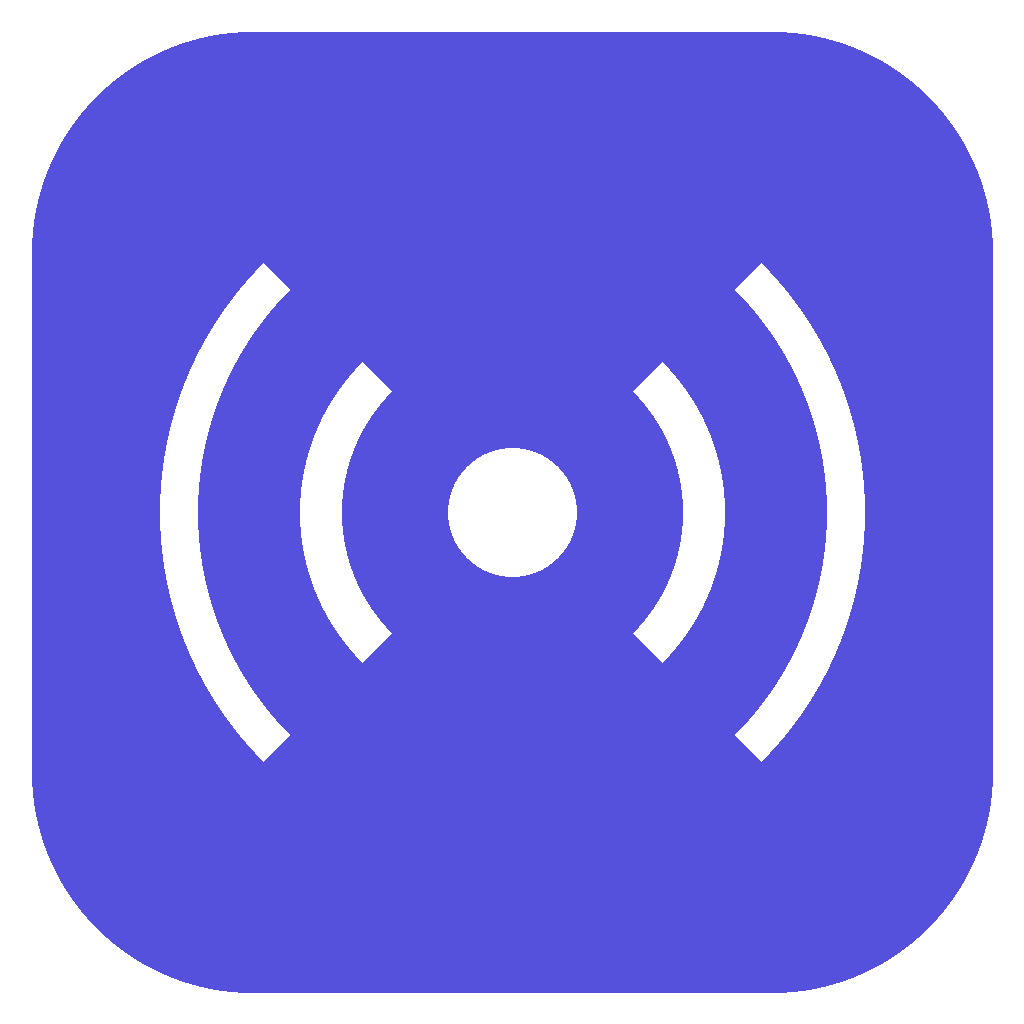
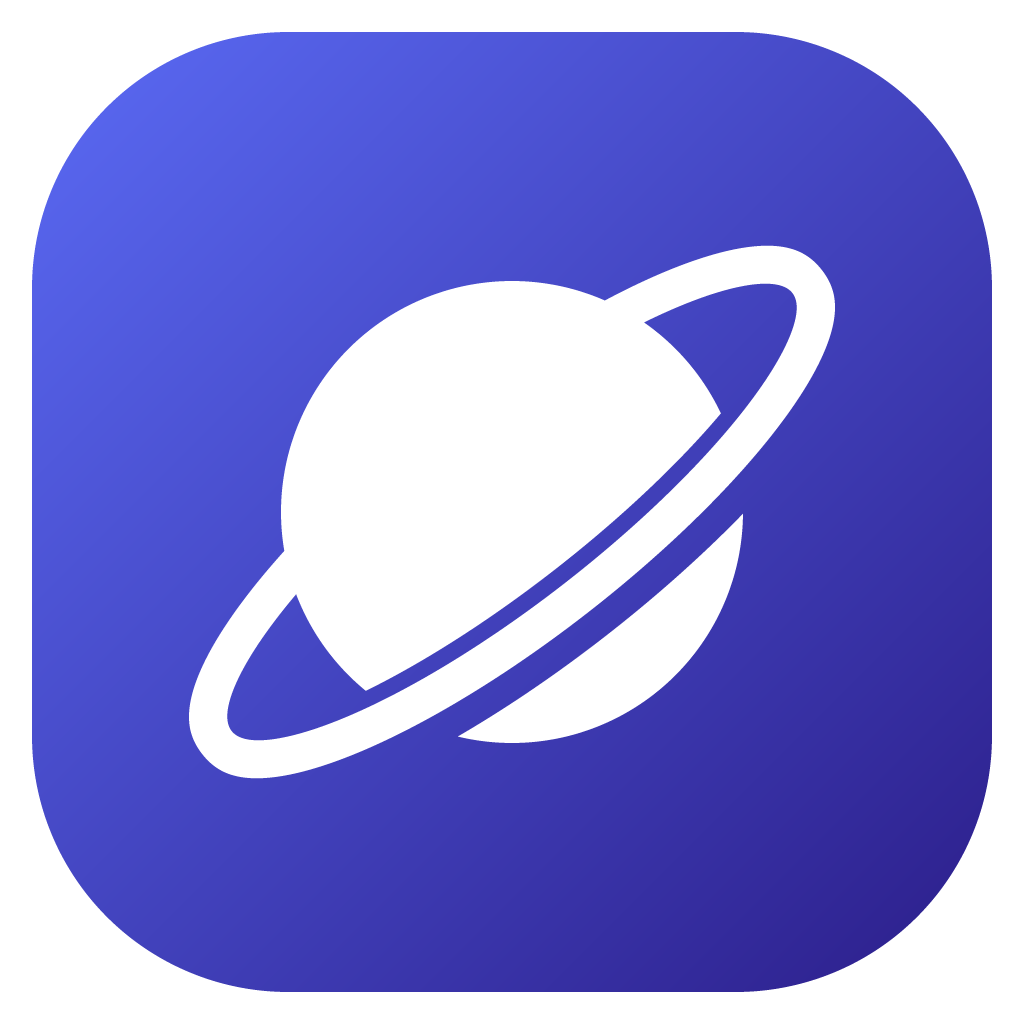
统一应用和菜单栏星球图标，发布0.3.3

diff --git a/internal/appicon/icon.go b/internal/appicon/icon.go
@@ -1,0 +1,82 @@
+// Package appicon renders the shared planet shape for the tray and app bundle.
+package appicon
+
+import (
+	"bytes"
+	"image"
+	"image/color"
+	"image/png"
+	"math"
+)
+
+func planet(x, y float64) bool {
+	const angle = -38 * math.Pi / 180
+	c, s := math.Cos(angle), math.Sin(angle)
+	u, v := c*x+s*y, -s*x+c*y
+	const a, b = 17.0, 4.8
+	gradient := 2 * math.Hypot(u/(a*a), v/(b*b))
+	distance := math.Inf(1)
+	if gradient > 0 {
+		distance = math.Abs((u*u/(a*a) + v*v/(b*b) - 1) / gradient)
+	}
+	body := x*x+y*y <= 10.5*10.5
+	if body && v > 0 && distance < 1.9 {
+		body = false
+	}
+	return body || distance <= 0.85
+}
+func encode(img image.Image) []byte {
+	var out bytes.Buffer
+	_ = png.Encode(&out, img)
+	return out.Bytes()
+}
+func TemplatePNG() []byte {
+	const size, samples = 36, 8
+	img := image.NewNRGBA(image.Rect(0, 0, size, size))
+	for y := 0; y < size; y++ {
+		for x := 0; x < size; x++ {
+			count := 0
+			for sy := 0; sy < samples; sy++ {
+				for sx := 0; sx < samples; sx++ {
+					if planet(float64(x)+(float64(sx)+.5)/samples-size/2, float64(y)+(float64(sy)+.5)/samples-size/2) {
+						count++
+					}
+				}
+			}
+			img.SetNRGBA(x, y, color.NRGBA{R: 255, G: 255, B: 255, A: uint8(count * 255 / (samples * samples))})
+		}
+	}
+	return encode(img)
+}
+func AppPNG() []byte {
+	const size, samples = 1024, 4
+	img := image.NewNRGBA(image.Rect(0, 0, size, size))
+	for y := 0; y < size; y++ {
+		for x := 0; x < size; x++ {
+			r, g, b, coverage := 0., 0., 0., 0.
+			for sy := 0; sy < samples; sy++ {
+				for sx := 0; sx < samples; sx++ {
+					px, py := float64(x)+(float64(sx)+.5)/samples, float64(y)+(float64(sy)+.5)/samples
+					// Rounded square: retain the existing purple app background.
+					dx, dy := math.Max(math.Abs(px-512)-224, 0), math.Max(math.Abs(py-512)-224, 0)
+					if dx*dx+dy*dy > 256*256 {
+						continue
+					}
+					t := math.Max(0, math.Min(1, (px+py-64)/1920))
+					cr, cg, cb := 91+(44-91)*t, 107+(30-107)*t, 245+(138-245)*t
+					if planet((px-512)/22, (py-512)/22) {
+						cr, cg, cb = 255, 255, 255
+					}
+					r += cr
+					g += cg
+					b += cb
+					coverage++
+				}
+			}
+			if coverage > 0 {
+				img.SetNRGBA(x, y, color.NRGBA{R: uint8(r / coverage), G: uint8(g / coverage), B: uint8(b / coverage), A: uint8(coverage * 255 / (samples * samples))})
+			}
+		}
+	}
+	return encode(img)
+}

diff --git a/main.go b/main.go
@@ -1,14 +1,9 @@
 package main
 
 import (
-	"bytes"
 	_ "embed"
 	"fmt"
-	"image"
-	"image/color"
-	"image/png"
 	"log"
-	"math"
 	"net/url"
 	"os"
 	"path/filepath"
@@ -16,6 +11,7 @@ import (
 	"time"
 
 	"github.com/egoist/mygo"
+	"xiaoyuzhou-menubar/internal/appicon"
 	"xiaoyuzhou-menubar/internal/appupdate"
 	"xiaoyuzhou-menubar/internal/player"
 )
@@ -136,46 +132,7 @@ func (b *Backend) ready() {
 
 }
 
-// A monochrome planet with a tilted orbit. Transparent separation keeps the
-// foreground orbit readable when macOS tints the template white or dark.
-func trayIcon() []byte {
-	const size = 36
-	const samples = 8
-	const angle = -38 * math.Pi / 180
-	c, s := math.Cos(angle), math.Sin(angle)
-	img := image.NewNRGBA(image.Rect(0, 0, size, size))
-	for y := 0; y < size; y++ {
-		for x := 0; x < size; x++ {
-			covered := 0
-			for sy := 0; sy < samples; sy++ {
-				for sx := 0; sx < samples; sx++ {
-					dx := float64(x) + (float64(sx)+0.5)/samples - size/2
-					dy := float64(y) + (float64(sy)+0.5)/samples - size/2
-					u, v := c*dx+s*dy, -s*dx+c*dy
-					const a, b = 17.0, 4.8
-					gradient := 2 * math.Hypot(u/(a*a), v/(b*b))
-					distance := math.Inf(1)
-					if gradient > 0 {
-						distance = math.Abs((u*u/(a*a) + v*v/(b*b) - 1) / gradient)
-					}
-					planet := dx*dx+dy*dy <= 10.5*10.5
-					orbit := distance <= 0.85
-					// The back arc passes behind the planet; the front arc gets a clear gap.
-					if planet && v > 0 && distance < 1.9 {
-						planet = false
-					}
-					if planet || orbit {
-						covered++
-					}
-				}
-			}
-			img.SetNRGBA(x, y, color.NRGBA{R: 255, G: 255, B: 255, A: uint8(covered * 255 / (samples * samples))})
-		}
-	}
-	var out bytes.Buffer
-	_ = png.Encode(&out, img)
-	return out.Bytes()
-}
+func trayIcon() []byte { return appicon.TemplatePNG() }
 
 func main() {
 	home, _ := os.UserHomeDir()

diff --git a/scripts/icon/main.go b/scripts/icon/main.go
@@ -1,0 +1,14 @@
+// Regenerate the packaged app icon from the same shape as the menu-bar icon.
+package main
+
+import (
+	"log"
+	"os"
+	"xiaoyuzhou-menubar/internal/appicon"
+)
+
+func main() {
+	if err := os.WriteFile("resources/icon.png", appicon.AppPNG(), 0644); err != nil {
+		log.Fatal(err)
+	}
+}

diff --git a/CHANGELOG.md b/CHANGELOG.md
@@ -1,5 +1,11 @@
 # 更新记录
 
+## 0.3.3
+
+- 修复应用和 DMG 安装界面仍显示旧广播图标的问题。
+- 应用与菜单栏图标统一为星球和斜向轨道造型。
+- 打包时自动生成应用图标，避免后续漏更新。
+
 ## 0.3.2
 
 - 软件更新区改为紧凑卡片，去除重复状态，更新说明默认折叠。
